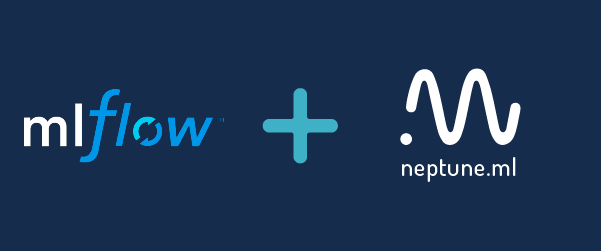
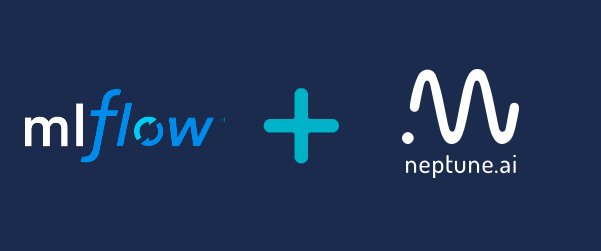
bump year to 2020, change ml to ai (#23)
* bump year to 2020, change ml to ai

* fixed badge

* Update docs/conf.py

* Update README.md

* fixes

* Update pylintrc

diff --git a/setup.py b/setup.py
@@ -1,5 +1,5 @@
 #
-# Copyright (c) 2019, Neptune Labs Sp. z o.o.
+# Copyright (c) 2020, Neptune Labs Sp. z o.o.
 #
 # Licensed under the Apache License, Version 2.0 (the "License");
 # you may not use this file except in compliance with the License.
@@ -39,8 +39,8 @@ def main():
             version=version(),
             url='https://github.com/neptune-ml/neptune-mlflow',
             license='Apache License 2.0',
-            author='neptune.ml',
-            author_email='contact@neptune.ml',
+            author='neptune.ai',
+            author_email='contact@neptune.ai',
             description='Neptune MLFlow',
             long_description=__doc__,
             packages=find_packages(),

diff --git a/README.md b/README.md
@@ -1,13 +1,13 @@
 # neptune-mlflow
 [![Build Status](https://travis-ci.org/neptune-ml/neptune-mlflow.svg?branch=master)](https://travis-ci.org/neptune-ml/neptune-mlflow)
 
-![mlflow neptune.ml integration](docs/_static/mlflow_neptuneml.png)
+![mlflow neptune.ai integration](docs/_static/mlflow_neptuneml.png)
 
 # Overview
 `neptune-mflow` integrates `mlflow` with `Neptune` to let you get the best of both worlds.
-Enjoy tracking and reproducibility of `mlflow` with organizion and collaboration of `Neptune`.
+Enjoy tracking and reproducibility of `mlflow` with organization and collaboration of `Neptune`.
 
-With `neptune-mlflow` you can have your `mlflow` experiment runs hosted in a beatutiful knowledge repo that lets you invite and manage project contributors. 
+With `neptune-mlflow` you can have your `mlflow` experiment runs hosted in a beautiful knowledge repo that lets you invite and manage project contributors. 
 
 All you need to do is go to your `mlflow` project and run:
 
@@ -15,16 +15,16 @@ All you need to do is go to your `mlflow` project and run:
 neptune mlflow --project USER_NAME/PROJECT_NAME
 ```
 
-and you have your [experiments](https://ui.neptune.ml/jakub-czakon/mlflow-integration/experiments) organized:
+and you have your [experiments](https://ui.neptune.ai/jakub-czakon/mlflow-integration/experiments) organized:
 
 ![image](https://gist.githubusercontent.com/jakubczakon/f754769a39ea6b8fa9728ede49b9165c/raw/84068b5ff66719923006f798c21181cab6ec71df/mlflow_p1.png)
 
-and easily [shareable](https://ui.neptune.ml/jakub-czakon/mlflow-integration/e/MLFLOW-10/output?path=artifacts%2F) with the world:
+and easily [shareable](https://ui.neptune.ai/jakub-czakon/mlflow-integration/e/MLFLOW-10/output?path=artifacts%2F) with the world:
 
 ![image](https://gist.githubusercontent.com/jakubczakon/f754769a39ea6b8fa9728ede49b9165c/raw/2b3989499b90a93e75208d9f9df5fa537b82b7fd/mlflow_artifact.png)
 
 # Documentation
-See [neptune-mlflow docs](https://docs.neptune.ml/integrations/mlflow.html) for more info.
+See [neptune-mlflow docs](https://docs.neptune.ai/integrations/mlflow.html) for more info.
 
 # Get started
 
@@ -78,7 +78,7 @@ If you get stuck, don't worry we are here to help.
 The best order of communication is:
 
  * [neptune community spectrum](https://spectrum.chat/neptune-community)
- * [neptune-mlflow docs](https://docs.neptune.ml/integrations/mlflow.html)
+ * [neptune-mlflow docs](https://docs.neptune.ai/integrations/mlflow.html)
  * [github issues](https://github.com/neptune-ml/neptune-mlflow/issues) 
 
 # Contributing

diff --git a/CODE_OF_CONDUCT.md b/CODE_OF_CONDUCT.md
@@ -55,7 +55,7 @@ further defined and clarified by project maintainers.
 ## Enforcement
 
 Instances of abusive, harassing, or otherwise unacceptable behavior may be
-reported by contacting the project team at contact@neptune.ml. All
+reported by contacting the project team at contact@neptune.ai. All
 complaints will be reviewed and investigated and will result in a response that
 is deemed necessary and appropriate to the circumstances. The project team is
 obligated to maintain confidentiality with regard to the reporter of an incident.

diff --git a/docs/index.rst b/docs/index.rst
@@ -1,2 +1,2 @@
-Neptune MLflow documentation has moved `here <https://docs.neptune.ml/integrations/mlflow.html>`_.
+Neptune MLflow documentation has moved `here <https://docs.neptune.ai/integrations/mlflow.html>`_.
 =======================================================================================================
